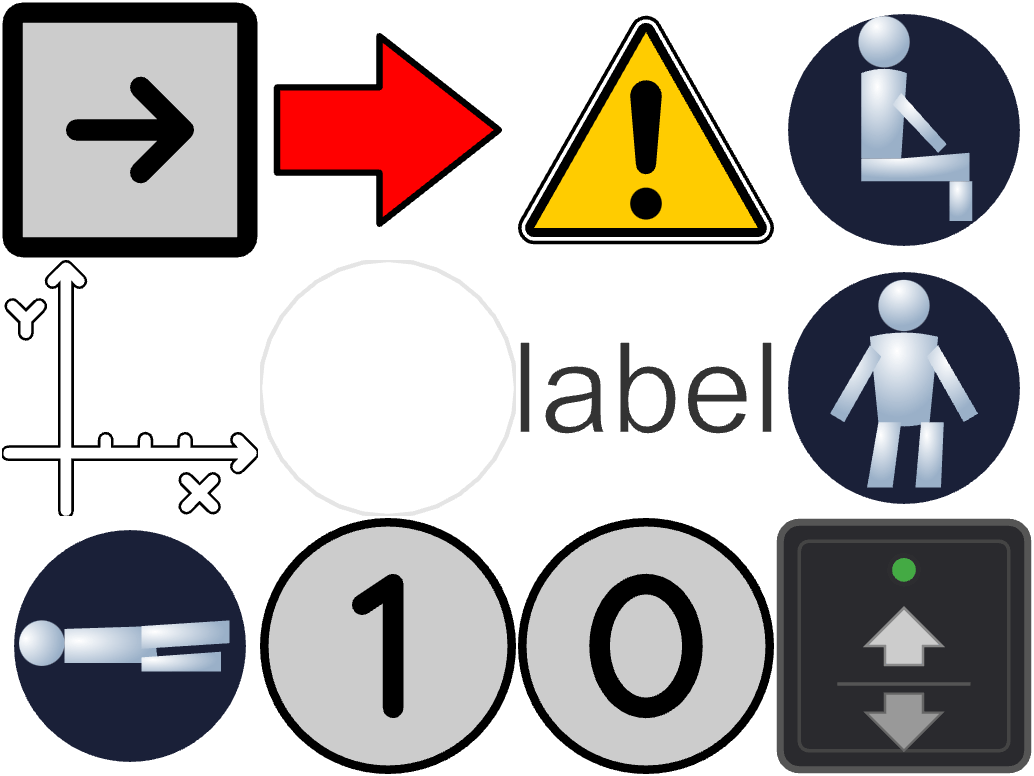
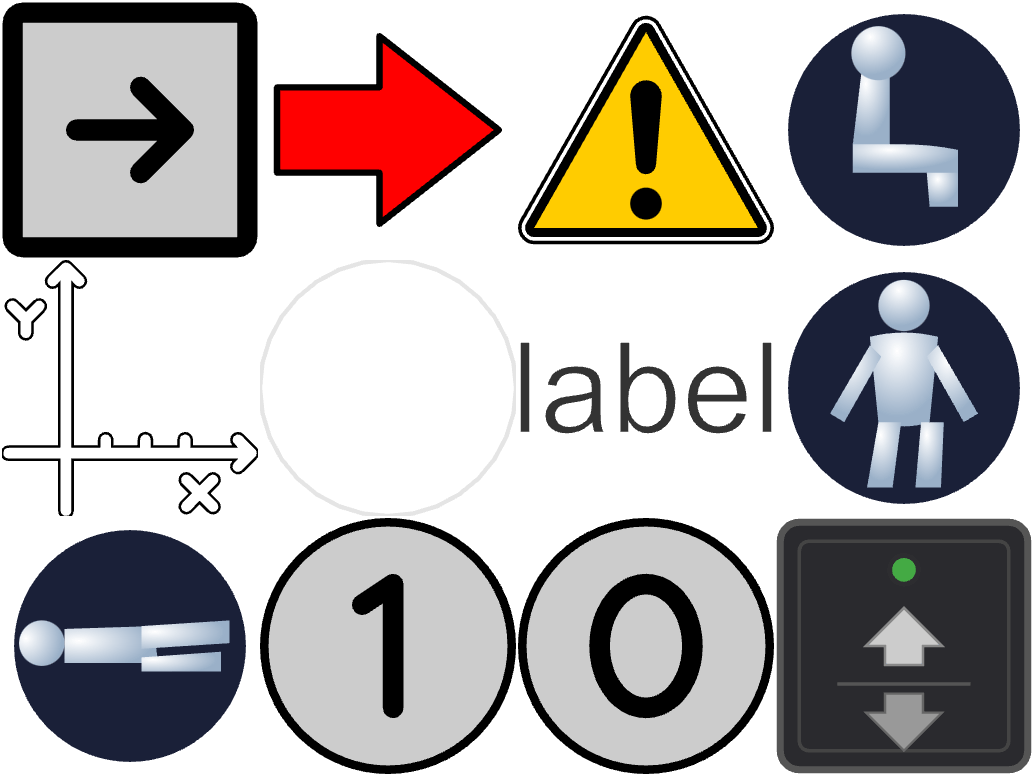
feat: apply decor.orient when rendering decor points

Changed region(s): [[0.8046, 0.0, 0.9594, 0.2784]]

diff --git a/packages/ui/world/src/components/Decor.tsx b/packages/ui/world/src/components/Decor.tsx
@@ -314,9 +314,12 @@ export default function Decor() {
             }
             const pw = entry.originalWidth * sguToWorldScale;
             const ph = entry.originalHeight * sguToWorldScale;
+            const angle = (decor.orient - 90) * (Math.PI / 180);
+            const [cos, sin] = [Math.cos(angle), Math.sin(angle)];
+            const [a, b, c, d] = [cos * pw, sin * pw, -sin * ph, cos * ph];
             // biome-ignore format: preserve newlines
-            tmpMat.feedFromArray([pw, 0, 0, ph, decor.x - pw / 2, decor.y - ph / 2]);
-            const mat4 = embedXZMat4(tmpMat, { yScale: cuboidHeight, yHeight: decor.meta.y ?? 0, mat4: tmpMat4 });
+            tmpMat.feedFromArray([a, b, c, d, decor.x - (a + c) * 0.5, decor.y - (b + d) * 0.5]);
+            const mat4 = embedXZMat4(tmpMat, { yScale: cuboidIconHeight, yHeight: decor.meta.y ?? 0, mat4: tmpMat4 });
             state.inst.setMatrixAt(instanceId, mat4);
             state.inst.setColorAt(instanceId, tmpColor.set(decor.meta.tint ?? "#ffffff"));
           }
@@ -443,6 +446,7 @@ function decorPointImgKey(meta: Meta): string {
 }
 
 const cuboidHeight = 0.05;
+const cuboidIconHeight = 0.005;
 const tmpVect = new Vect();
 const tmpRect = new Rect();
 const tmpMat = new Mat();

diff --git a/TODO.md b/TODO.md
@@ -13,14 +13,17 @@
     - ✅ can uniformly scale image node around its center
     - ✅ uniform scale picked up by decor
     - 🚧 replace lights with `decor circle light`
-  - 🚧 do-points as decor point
+  - ✅ do-points as decor point
     - ✅ add some do-points (arrows) to 301
-    - 🚧 Decor renders them
+    - ✅ Decor renders them
+    - ✅ apply decor.orient
   - 🚧 can remove decor rect/circle
+    - track runtime decor so preserve on hmr
+    - try track gaps
 
 - ✅ clean path for extra--005--chair
 
-- can spawn on chair
+- 🚧 can spawn on chair
 
 - can spawn on bed
 
